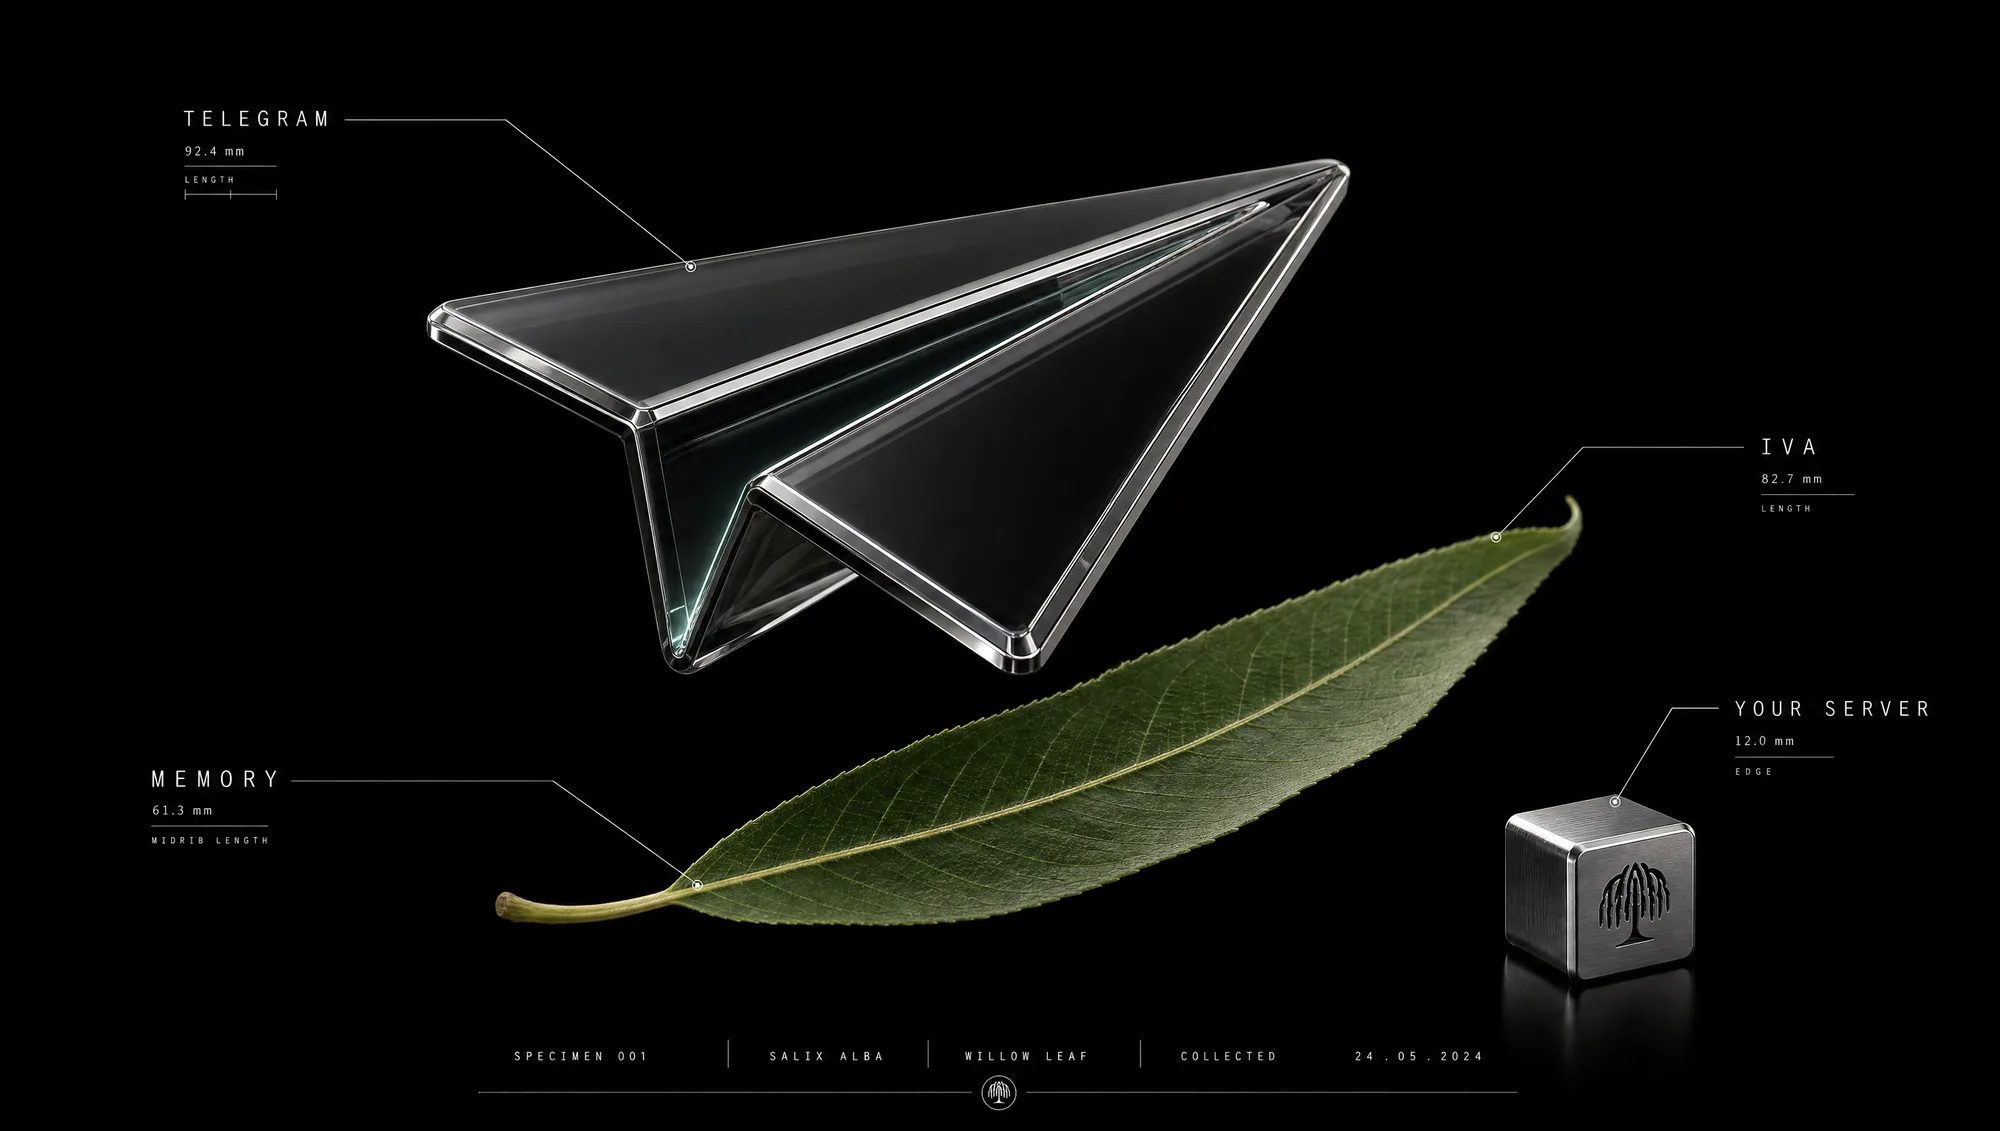
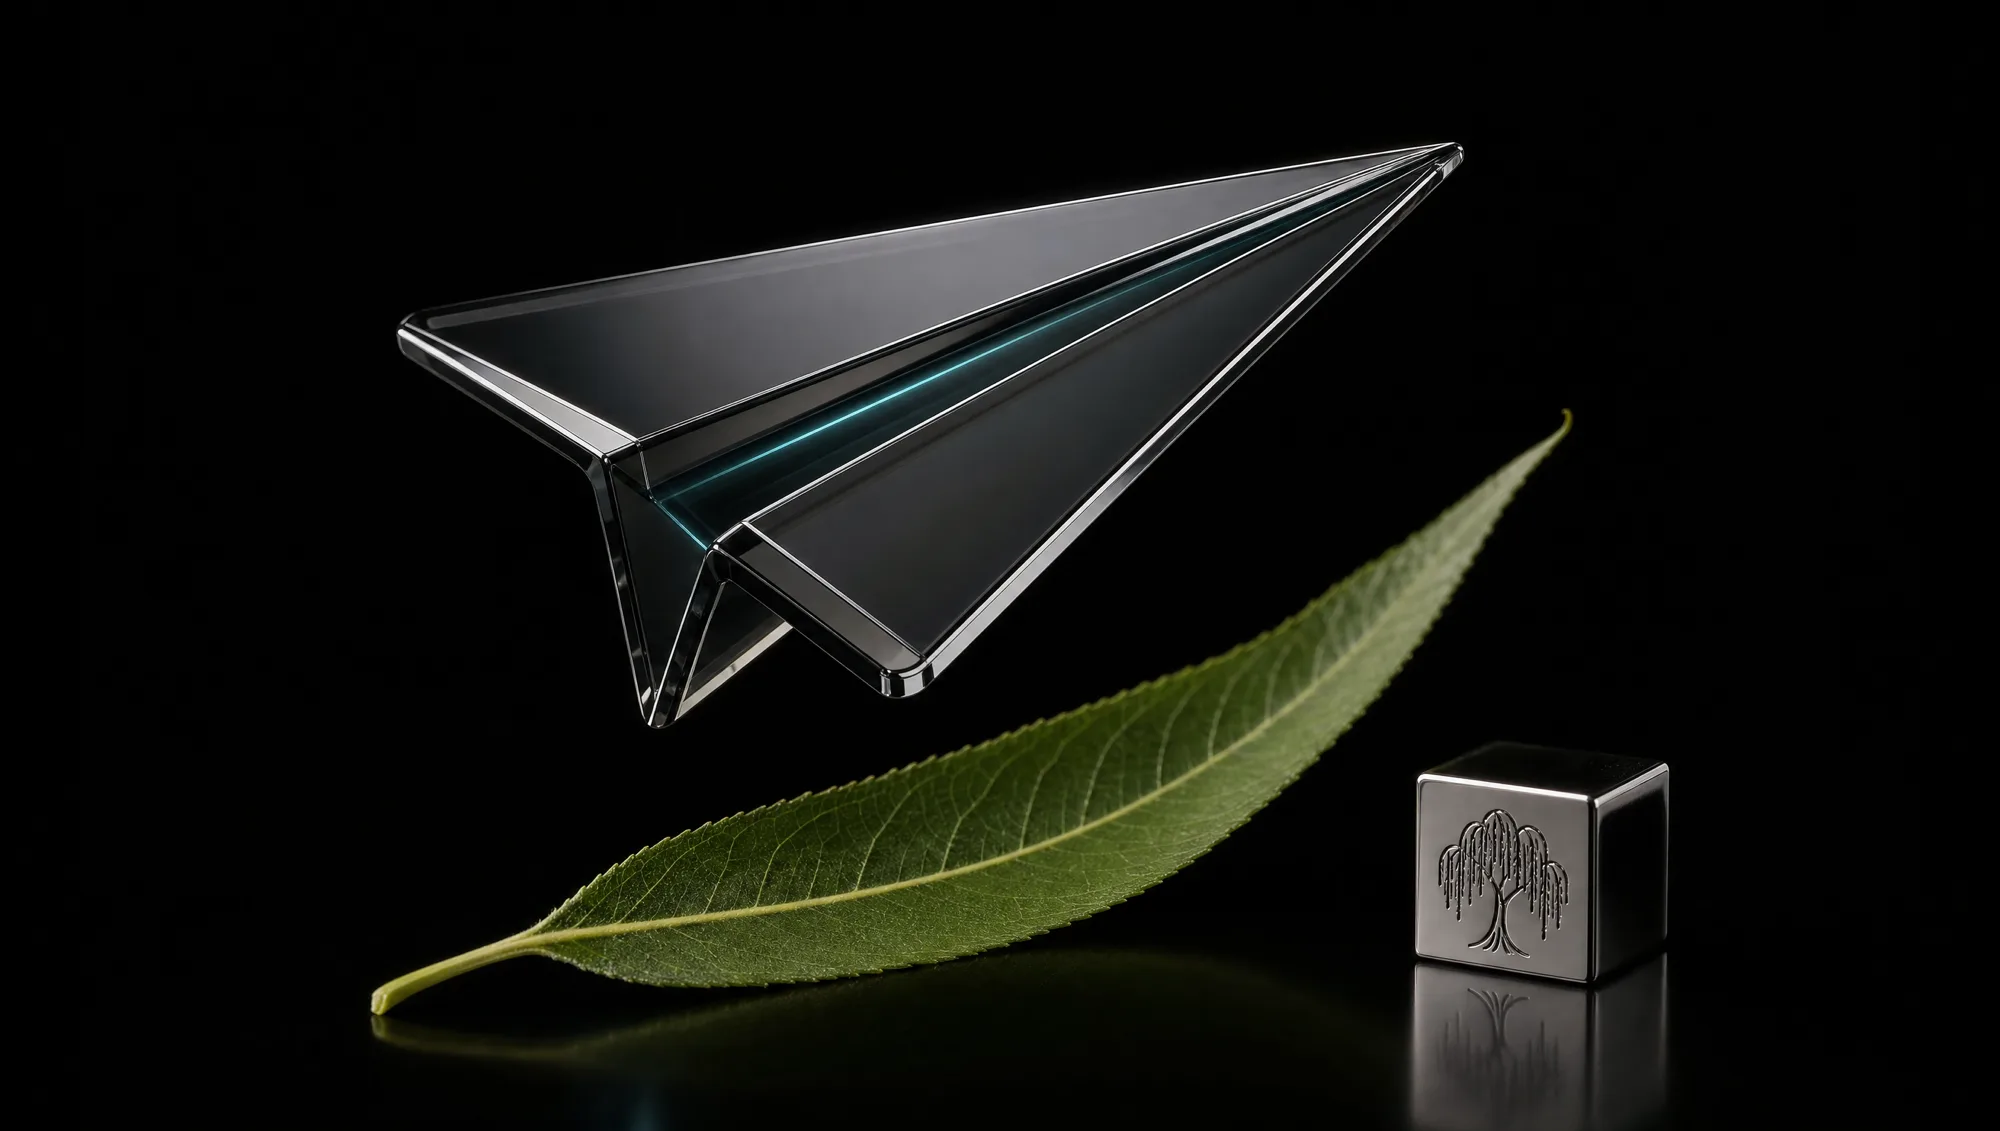
landing: clean hero artwork, stronger parallax, anchor offsets
- Regenerate hero image without edge annotations so nothing is cropped by the viewport
- Zoom the hero backdrop and raise mouse-parallax amplitude
- Rebuild the OG crop from the clean artwork
- Add scroll-margin-top so anchored sections clear the fixed nav

diff --git a/docs/index.html b/docs/index.html
@@ -135,7 +135,7 @@
 
   /* ---------- Hero ---------- */
   .hero { position: relative; min-height: 100svh; display: flex; flex-direction: column; overflow: hidden; }
-  .hero-bg { position: absolute; inset: -3%; z-index: 0; will-change: transform; }
+  .hero-bg { position: absolute; inset: -7%; z-index: 0; will-change: transform; }
   .hero-bg img { width: 100%; height: 100%; object-fit: cover; object-position: center 38%; }
   .hero-bg::after {
     content: ""; position: absolute; inset: 0;
@@ -200,7 +200,7 @@
   }
 
   /* ---------- Sections ---------- */
-  section { padding-block: clamp(84px, 11vw, 150px); }
+  section { padding-block: clamp(84px, 11vw, 150px); scroll-margin-top: 84px; }
   .sec-label {
     font-family: 'Geologica', system-ui, sans-serif; font-weight: 200;
     font-size: clamp(34px, 4.8vw, 58px); line-height: 1.08; letter-spacing: -0.01em; color: #fff;
@@ -570,7 +570,7 @@ wireCopy('copy2', 'cmd2');
 (function () {
   var el = document.getElementById('parallax');
   if (!el || matchMedia('(prefers-reduced-motion: reduce)').matches || !matchMedia('(hover: hover)').matches) return;
-  var tx = 0, ty = 0, cx = 0, cy = 0, s = 14, raf;
+  var tx = 0, ty = 0, cx = 0, cy = 0, s = 30, raf;
   addEventListener('mousemove', function (e) {
     tx = (e.clientX / innerWidth - 0.5) * 2 * s;
     ty = (e.clientY / innerHeight - 0.5) * 2 * s;

diff --git a/docs/ru/index.html b/docs/ru/index.html
@@ -134,7 +134,7 @@
 
   /* ---------- Hero ---------- */
   .hero { position: relative; min-height: 100svh; display: flex; flex-direction: column; overflow: hidden; }
-  .hero-bg { position: absolute; inset: -3%; z-index: 0; will-change: transform; }
+  .hero-bg { position: absolute; inset: -7%; z-index: 0; will-change: transform; }
   .hero-bg img { width: 100%; height: 100%; object-fit: cover; object-position: center 38%; }
   .hero-bg::after {
     content: ""; position: absolute; inset: 0;
@@ -199,7 +199,7 @@
   }
 
   /* ---------- Sections ---------- */
-  section { padding-block: clamp(84px, 11vw, 150px); }
+  section { padding-block: clamp(84px, 11vw, 150px); scroll-margin-top: 84px; }
   .sec-label {
     font-family: 'Geologica', system-ui, sans-serif; font-weight: 200;
     font-size: clamp(34px, 4.8vw, 58px); line-height: 1.08; letter-spacing: -0.01em; color: #fff;
@@ -569,7 +569,7 @@ wireCopy('copy2', 'cmd2');
 (function () {
   var el = document.getElementById('parallax');
   if (!el || matchMedia('(prefers-reduced-motion: reduce)').matches || !matchMedia('(hover: hover)').matches) return;
-  var tx = 0, ty = 0, cx = 0, cy = 0, s = 14, raf;
+  var tx = 0, ty = 0, cx = 0, cy = 0, s = 30, raf;
   addEventListener('mousemove', function (e) {
     tx = (e.clientX / innerWidth - 0.5) * 2 * s;
     ty = (e.clientY / innerHeight - 0.5) * 2 * s;
